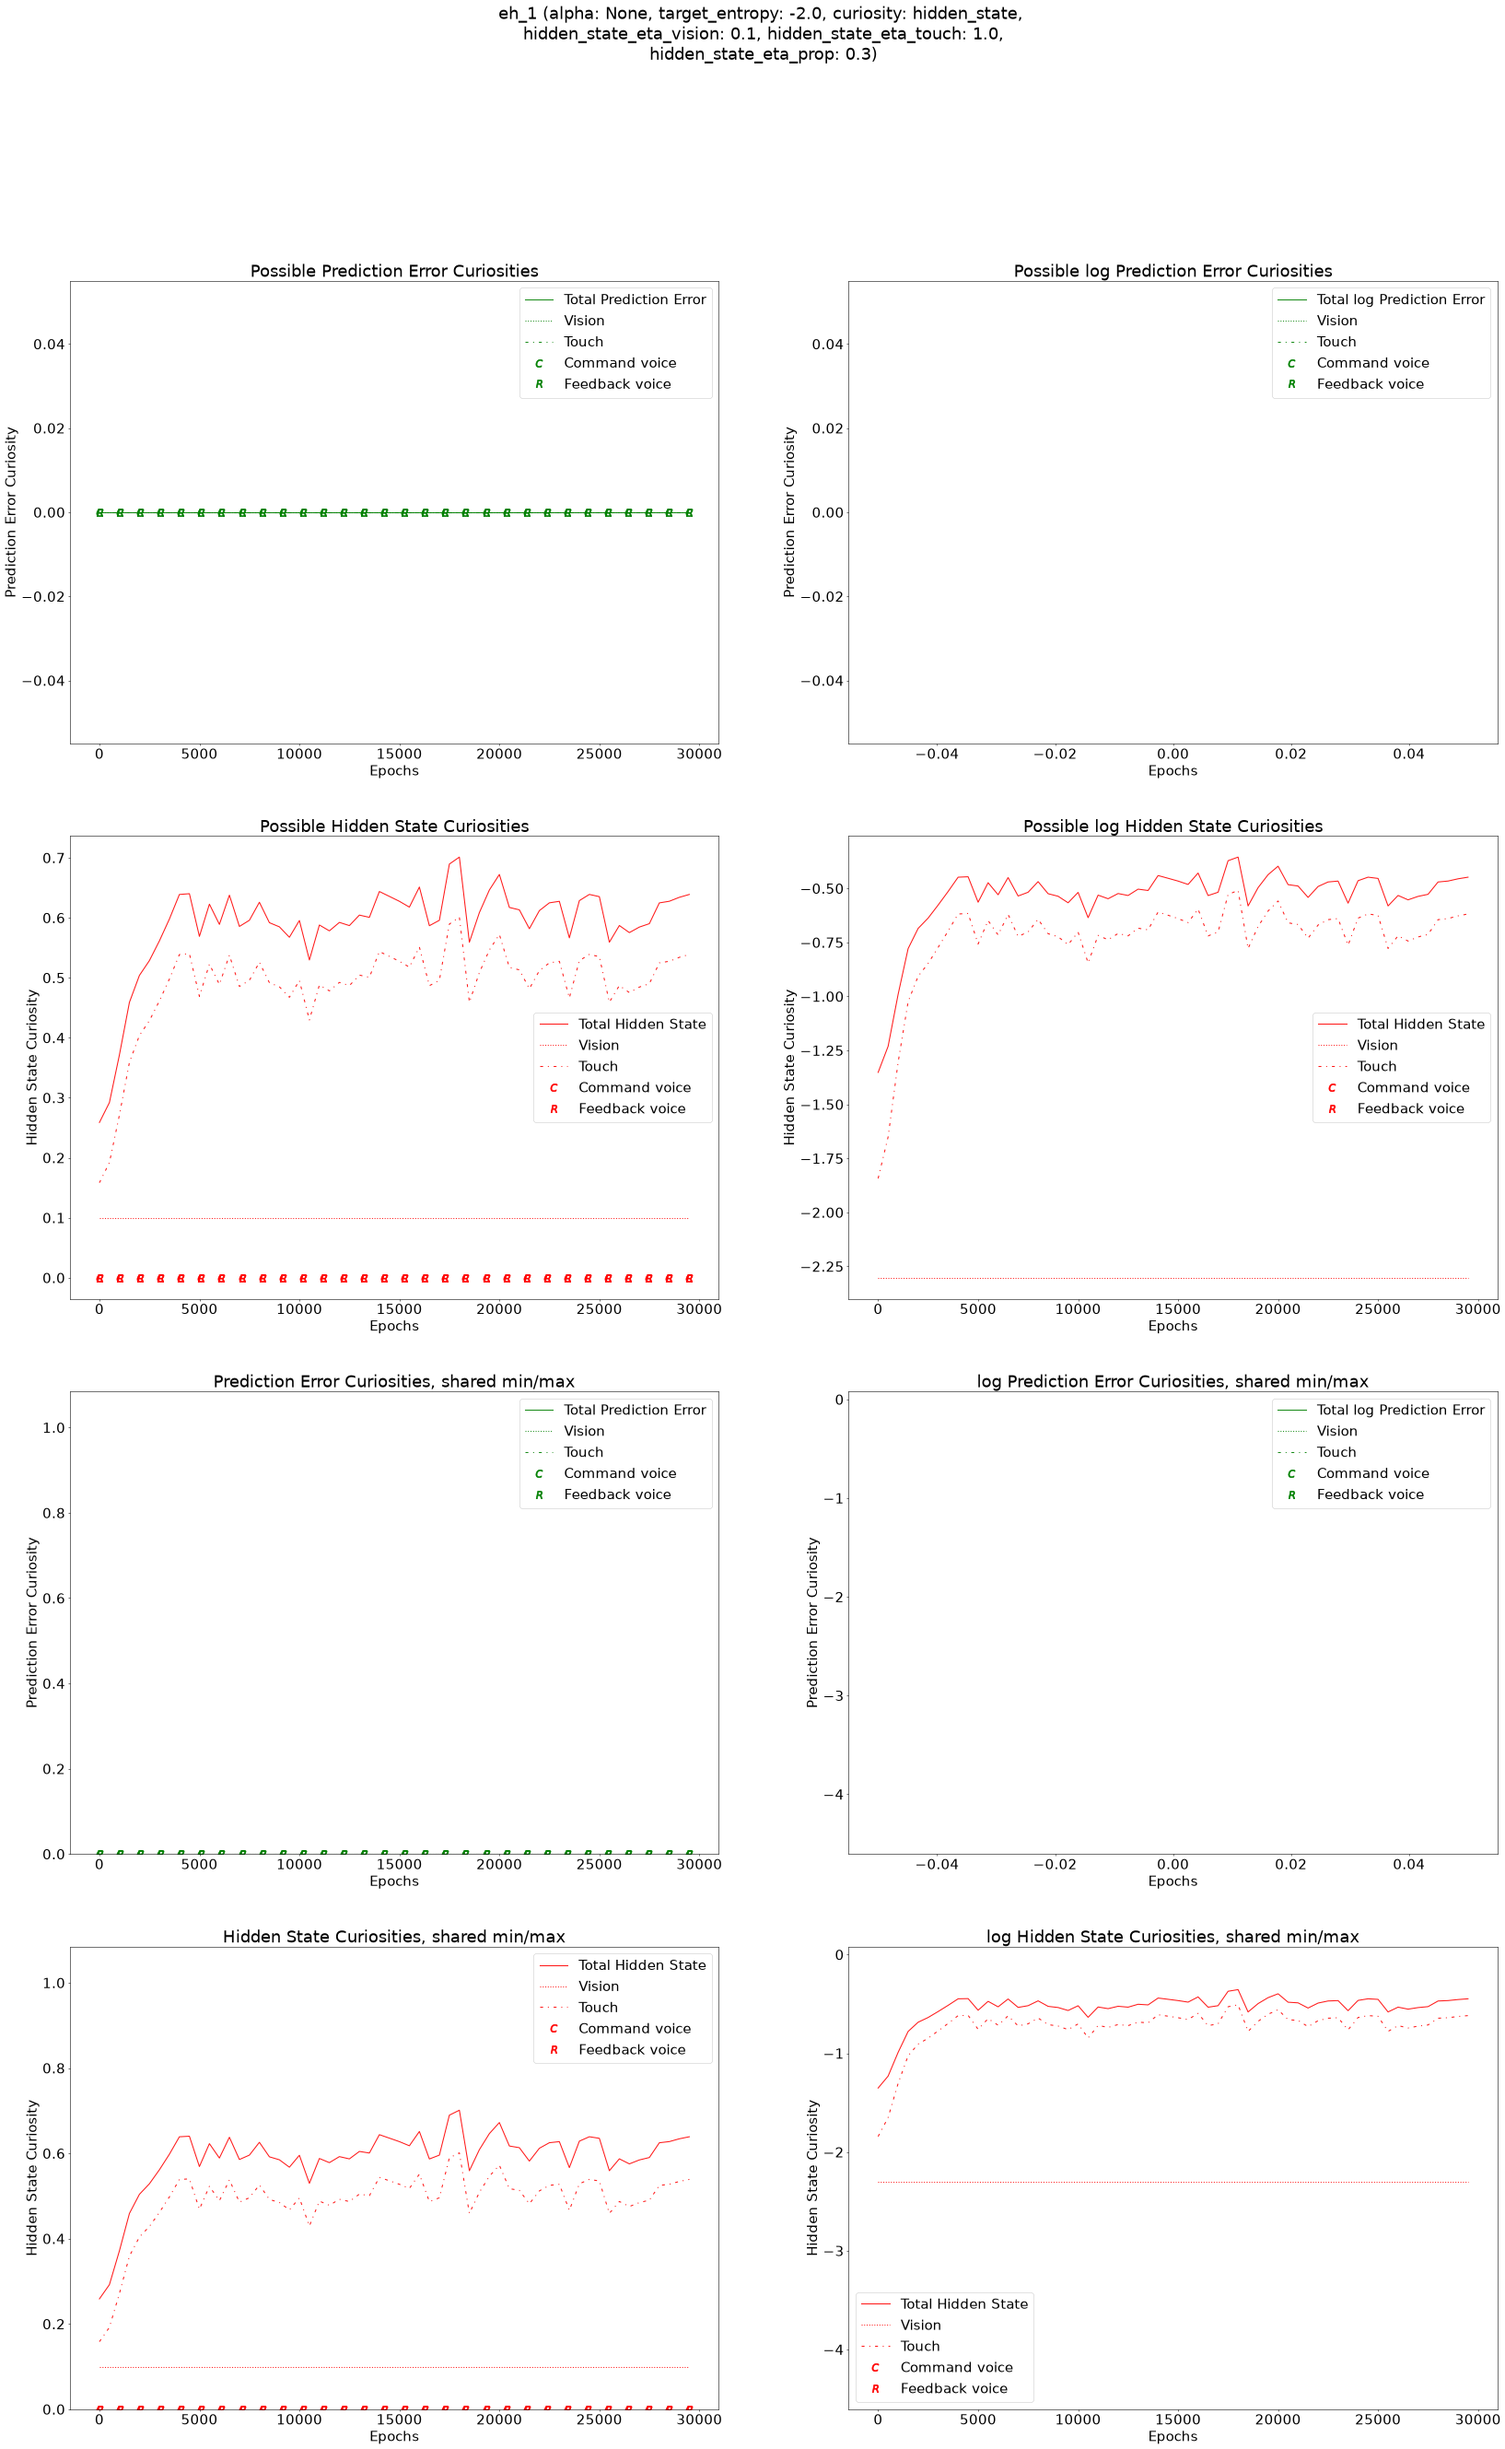
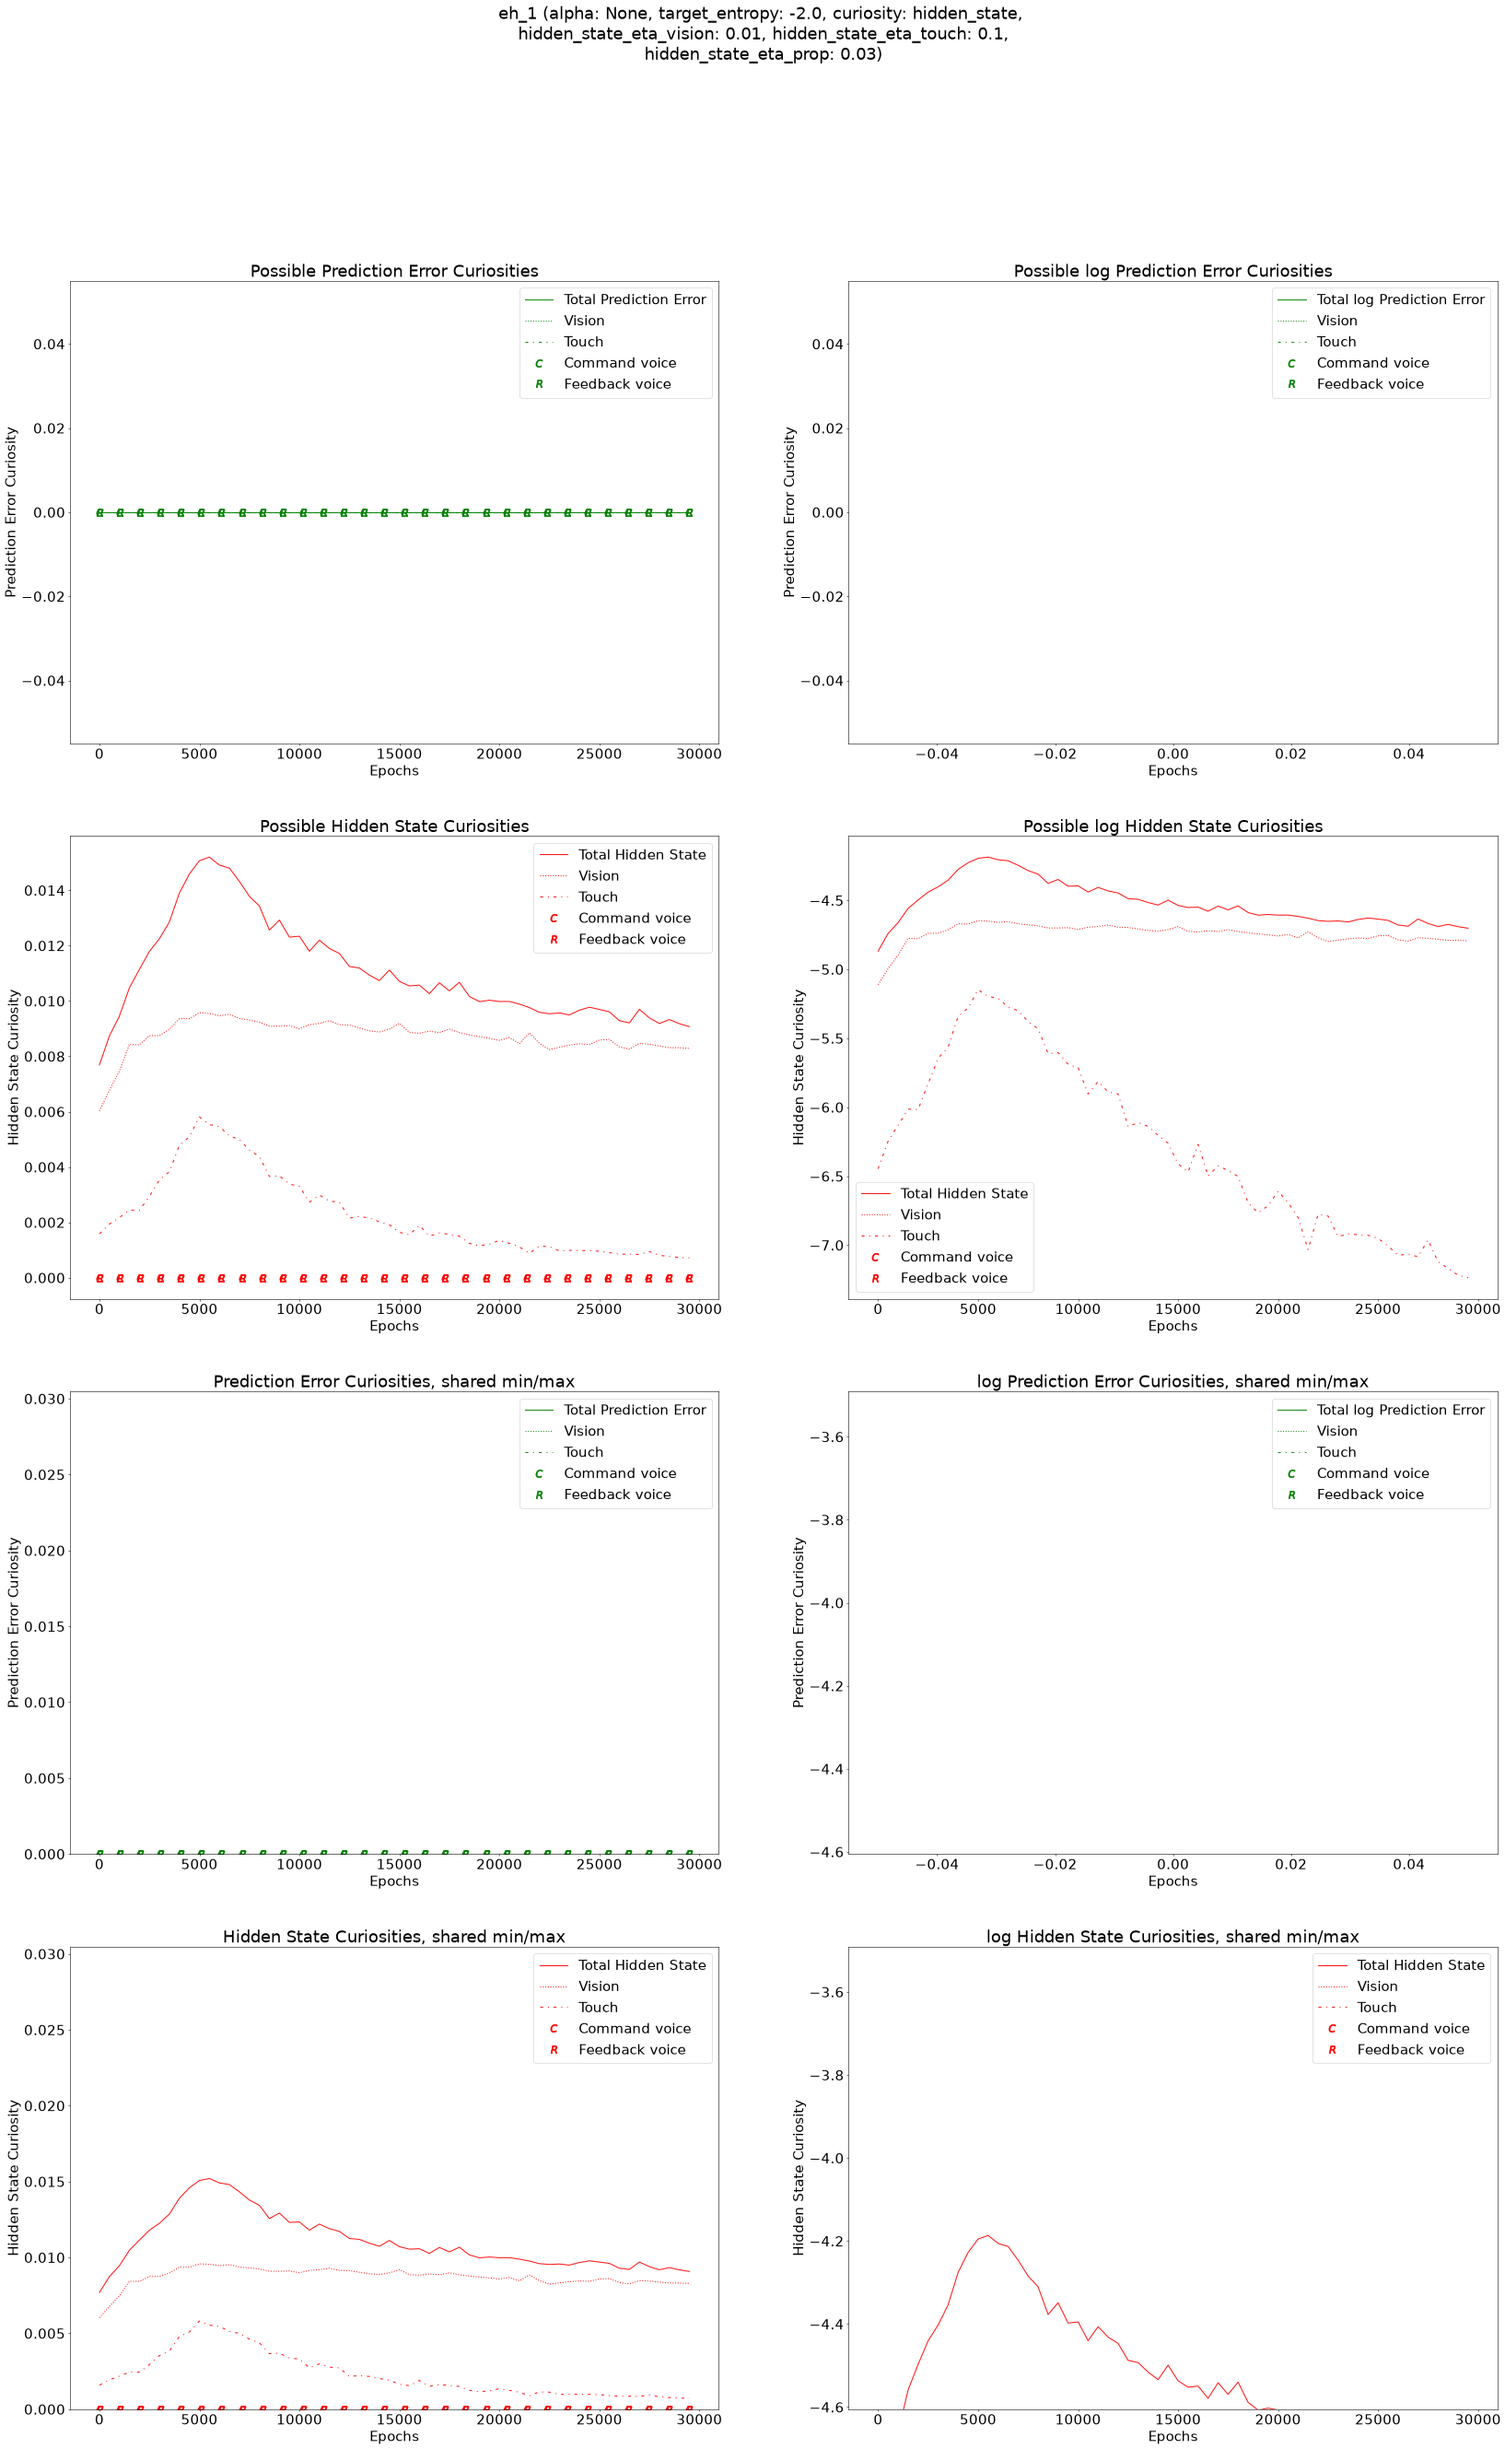
2026_11_06. Working faster.

diff --git a/agent.py b/agent.py
@@ -209,13 +209,13 @@ class Agent:
         curious = args.curiosity == 'hidden_state'
         self.base_etas = {}
         inner_state_scalars = {}
-        for name, (_, _, _, scaler, beta, eta) in self.modalities.items():
+        for name, (_, _, state_size, scaler, beta, eta) in self.modalities.items():
             self.base_etas[name] = (eta if curious else 0.) * args.dkl_max
             inner_state_scalars[name] = {
                 'upsilon_prior' : scaler,
                 'upsilon_posterior' : scaler * POSTERIOR_ACCURACY,
                 'beta' : beta,
-                'eta_before_clamp' : 1. / args.dkl_max,
+                'eta_before_clamp' : 1. / (args.dkl_max * state_size),
                 'eta' : self.base_etas[name]}
 
         # The original's log-probability was the MEAN over the wheels_joints dimensions;

diff --git a/bash/slurmcraft.py b/bash/slurmcraft.py
@@ -93,10 +93,10 @@ add_this('e',   {
 # Agents with curiosity.
 add_this('h',   {
     'curiosity' : 'hidden_state',
-    'hidden_state_eta_vision' : .1, 
-    'hidden_state_eta_touch' : 1,
-    'hidden_state_eta_prop' : .3,
-    'hidden_state_eta_feedback_voice' : [0, .3]})    
+    'hidden_state_eta_vision' : .01, 
+    'hidden_state_eta_touch' : .1,
+    'hidden_state_eta_prop' : .03,
+    'hidden_state_eta_feedback_voice' : [0, .03]})    
 
 
 

diff --git a/utils.py b/utils.py
@@ -19,6 +19,11 @@ from itertools import product
 from math import pi, exp
 from random import choice, choices
 
+
+
+
+
+
 # -------------------------------
 # DIRECTORY CHECK
 # -------------------------------
